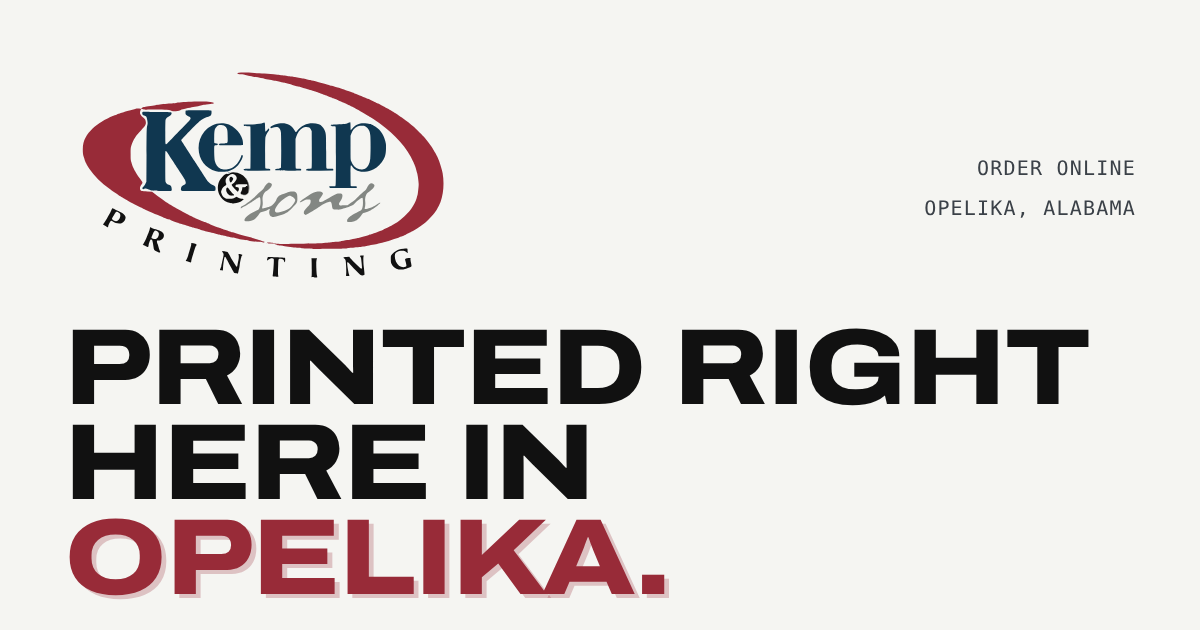
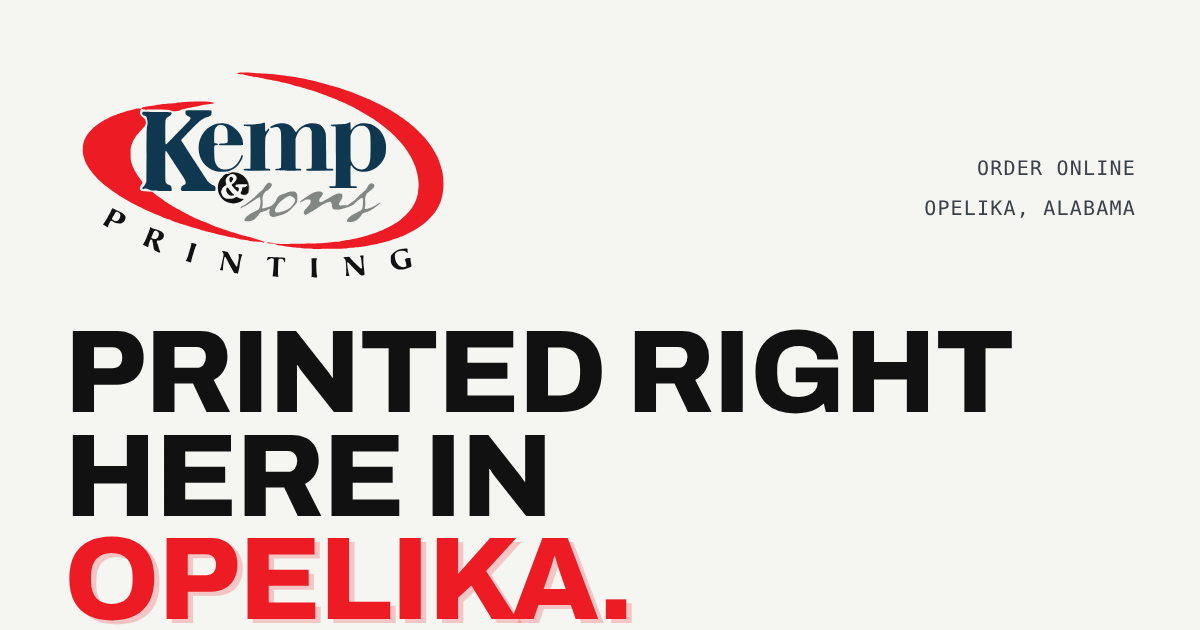
Kemp & Sons site: brand red #ED1C24 everywhere, standard-width type
Logo SVGs, CSS tokens, 3D textures and share image now use the client's
red. Small red text uses a deeper shade for legibility. Archivo width
moved from extended to standard via --stretch-display / --stretch-ui.

Claude-Session: https://claude.ai/code/session_0156pdi9V1ebMvpSVLSuGcoY

Changed region(s): [[0.0308, 0.5127, 0.925, 0.9952], [0.2158, 0.1206, 0.37, 0.3921], [0.0617, 0.1508, 0.2158, 0.3921]]

diff --git a/kemp-sons-site/src/styles/global.css b/kemp-sons-site/src/styles/global.css
@@ -9,8 +9,8 @@
 
 :root {
   /* Brand */
-  --burgundy: #982b38;
-  --burgundy-deep: #7a1f2b;
+  --red: #ed1c24;       /* Kemp & Sons red */
+  --red-ink: #c4161c;   /* same red, deepened for small text so it stays legible */
   --navy: #103750;
   --navy-deep: #0b2638;
   --gray: #838783;
@@ -30,6 +30,10 @@
   --m: #d6007e;
   --y: #ffd400;
 
+  /* Typeface width: 100% is standard, up to 125% is extended. */
+  --stretch-display: 100%;
+  --stretch-ui: 100%;
+
   --font: 'Archivo Variable', 'Archivo', 'Helvetica Neue', Arial, sans-serif;
   --mono: 'IBM Plex Mono', ui-monospace, Menlo, Consolas, monospace;
 
@@ -45,7 +49,7 @@ html.lenis, html.lenis body { height: auto; }
 .lenis.lenis-smooth { scroll-behavior: auto !important; }
 body {
   font-family: var(--font);
-  font-stretch: 100%;
+  font-stretch: var(--stretch-ui);
   font-size: 17px;
   line-height: 1.55;
   color: var(--ink);
@@ -59,8 +63,8 @@ img, svg, canvas { display: block; max-width: 100%; }
 [hidden] { display: none !important; }
 a { color: inherit; }
 button, input, select, textarea { font: inherit; color: inherit; }
-::selection { background: var(--burgundy); color: var(--white); }
-:focus-visible { outline: 2px solid var(--burgundy); outline-offset: 3px; }
+::selection { background: var(--red); color: var(--white); }
+:focus-visible { outline: 2px solid var(--red); outline-offset: 3px; }
 
 .skip { position: absolute; left: -999px; top: 8px; background: var(--ink); color: #fff; padding: 10px 14px; z-index: 100; }
 .skip:focus { left: 12px; }
@@ -81,11 +85,11 @@ button, input, select, textarea { font: inherit; color: inherit; }
   letter-spacing: 0.06em;
   text-transform: uppercase;
 }
-.label { color: var(--burgundy); display: inline-flex; align-items: center; gap: 10px; }
+.label { color: var(--red-ink); display: inline-flex; align-items: center; gap: 10px; }
 .label::before { content: ''; width: 22px; height: 2px; background: currentColor; }
 .headline {
   font-family: var(--font);
-  font-stretch: 118%;
+  font-stretch: var(--stretch-display);
   font-weight: 800;
   text-transform: uppercase;
   line-height: 0.88;
@@ -95,7 +99,7 @@ button, input, select, textarea { font: inherit; color: inherit; }
 h1.headline { font-size: clamp(46px, 7.4vw, 132px); }
 h2.headline { font-size: clamp(38px, 5.2vw, 88px); }
 .sub {
-  font-stretch: 112%;
+  font-stretch: var(--stretch-ui);
   font-weight: 700;
   text-transform: uppercase;
   letter-spacing: 0.01em;
@@ -103,16 +107,16 @@ h2.headline { font-size: clamp(38px, 5.2vw, 88px); }
   line-height: 1.1;
 }
 .lede { font-size: clamp(17px, 1.45vw, 21px); line-height: 1.5; color: var(--ink-2); max-width: 44ch; }
-.accent { color: var(--burgundy); }
+.accent { color: var(--red); }
 
-/* Misregistered print: the burgundy plate lands a hair off the black. */
-.misreg { text-shadow: 0.045em 0.035em 0 rgba(152, 43, 56, 0.9); }
+/* Misregistered print: the red plate lands a hair off the black. */
+.misreg { text-shadow: 0.045em 0.035em 0 rgba(237, 28, 36, 0.35); }
 
 /* ---------- Buttons: square-cut, press-shadow ---------- */
 .btn {
   display: inline-flex; align-items: center; justify-content: center; gap: 12px;
   min-height: 54px; padding: 0 26px;
-  font-family: var(--font); font-stretch: 112%; font-weight: 700; font-size: 14px;
+  font-family: var(--font); font-stretch: var(--stretch-ui); font-weight: 700; font-size: 14px;
   letter-spacing: 0.06em; text-transform: uppercase; text-decoration: none; cursor: pointer; white-space: nowrap;
   border: 2px solid var(--ink); background: transparent; color: var(--ink);
   box-shadow: 4px 4px 0 var(--ink);
@@ -120,9 +124,9 @@ h2.headline { font-size: clamp(38px, 5.2vw, 88px); }
 }
 .btn:hover { transform: translate(-2px, -2px); box-shadow: 6px 6px 0 var(--ink); }
 .btn:active { transform: translate(3px, 3px); box-shadow: 1px 1px 0 var(--ink); }
-.btn-primary { background: var(--burgundy); color: var(--white); }
-.btn-ink { background: var(--ink); color: var(--white); box-shadow: 4px 4px 0 var(--burgundy); }
-.btn-ink:hover { box-shadow: 6px 6px 0 var(--burgundy); }
+.btn-primary { background: var(--red); color: var(--white); }
+.btn-ink { background: var(--ink); color: var(--white); box-shadow: 4px 4px 0 var(--red); }
+.btn-ink:hover { box-shadow: 6px 6px 0 var(--red); }
 .btn-paper { background: var(--white); border-color: var(--white); color: var(--navy); box-shadow: 4px 4px 0 var(--reg); }
 .btn-outline-paper { border-color: var(--white); color: var(--white); box-shadow: 4px 4px 0 rgba(0, 0, 0, 0.35); }
 .btn .arrow { font-family: var(--mono); transition: transform 0.18s var(--ease); }
@@ -147,7 +151,7 @@ h2.headline { font-size: clamp(38px, 5.2vw, 88px); }
 .colorbar i:nth-child(3) { background: var(--y); }
 .colorbar i:nth-child(4) { background: var(--reg); }
 .colorbar i:nth-child(5) { background: var(--navy); }
-.colorbar i:nth-child(6) { background: var(--burgundy); }
+.colorbar i:nth-child(6) { background: var(--red); }
 .colorbar i:nth-child(7) { background: var(--gray); }
 .colorbar i:nth-child(8) { background: linear-gradient(90deg, #111 0 25%, #555 25% 50%, #999 50% 75%, #ddd 75%); }
 

diff --git a/kemp-sons-site/src/scripts/textures.ts b/kemp-sons-site/src/scripts/textures.ts
@@ -8,7 +8,7 @@ import * as THREE from 'three'
 const C = {
   navy: '#103750',
   navyDeep: '#0a2536',
-  burgundy: '#982b38',
+  red: '#ed1c24',
   gray: '#838783',
   black: '#111111',
   paper: '#fbfaf6',
@@ -93,7 +93,7 @@ export function programTextures(r: THREE.WebGLRenderer) {
     return toTexture(c, r)
   }
   const front = panel((g) => {
-    centerText(g, 'In Loving Memory', W / 2, 96, `italic 44px ${SERIF}`, C.burgundy)
+    centerText(g, 'In Loving Memory', W / 2, 96, `italic 44px ${SERIF}`, C.red)
     photo(g, W / 2, 330, 280, 350)
     g.strokeStyle = C.gold
     g.lineWidth = 4
@@ -105,20 +105,20 @@ export function programTextures(r: THREE.WebGLRenderer) {
     lines(g, W / 2, 762, 300, 2, 22, '#c9bfa9')
   })
   const back = panel((g) => {
-    centerText(g, 'With Gratitude', W / 2, 110, `italic 38px ${SERIF}`, C.burgundy)
+    centerText(g, 'With Gratitude', W / 2, 110, `italic 38px ${SERIF}`, C.red)
     lines(g, W / 2, 170, 380, 5, 26, '#bdb4a2')
-    centerText(g, 'Pallbearers', W / 2, 360, `italic 30px ${SERIF}`, C.burgundy)
+    centerText(g, 'Pallbearers', W / 2, 360, `italic 30px ${SERIF}`, C.red)
     lines(g, W / 2, 400, 320, 3, 26, '#bdb4a2')
-    centerText(g, 'Interment', W / 2, 530, `italic 30px ${SERIF}`, C.burgundy)
+    centerText(g, 'Interment', W / 2, 530, `italic 30px ${SERIF}`, C.red)
     lines(g, W / 2, 570, 260, 2, 26, '#bdb4a2')
     centerText(g, 'Printed by Kemp & Sons', W / 2, 770, `14px ${SANS}`, C.gray, 2)
   })
   const insideLeft = panel((g) => {
-    centerText(g, 'Obituary', W / 2, 100, `italic 40px ${SERIF}`, C.burgundy)
+    centerText(g, 'Obituary', W / 2, 100, `italic 40px ${SERIF}`, C.red)
     lines(g, 70, 160, 410, 22, 26, '#b9b1a1', false)
   })
   const insideRight = panel((g) => {
-    centerText(g, 'Order of Service', W / 2, 100, `italic 40px ${SERIF}`, C.burgundy)
+    centerText(g, 'Order of Service', W / 2, 100, `italic 40px ${SERIF}`, C.red)
     g.fillStyle = '#b9b1a1'
     for (let i = 0; i < 11; i++) {
       const y = 170 + i * 44
@@ -139,7 +139,7 @@ export function christmasTexture(r: THREE.WebGLRenderer) {
   for (const [x, h] of [[90, 170], [170, 120], [330, 200], [420, 140]] as const) {
     g.beginPath(); g.moveTo(x, 470 - h); g.lineTo(x + h * 0.32, 470); g.lineTo(x - h * 0.32, 470); g.fill()
   }
-  g.fillStyle = C.burgundy
+  g.fillStyle = C.red
   g.fillRect(0, 490, W, 210)
   g.fillStyle = C.gold
   g.fillRect(0, 490, W, 6)
@@ -153,7 +153,7 @@ export function yardSignTexture(r: THREE.WebGLRenderer) {
   const [c, g] = canvas(W, H)
   g.fillStyle = C.navy
   g.fillRect(0, 0, W, H)
-  g.fillStyle = C.burgundy
+  g.fillStyle = C.red
   g.fillRect(0, H - 170, W, 170)
   g.fillStyle = '#ffffff'
   g.beginPath(); g.arc(230, 280, 160, 0, Math.PI * 2); g.fill()
@@ -179,7 +179,7 @@ export function stickerSheetTexture(r: THREE.WebGLRenderer) {
   const [c, g] = canvas(W, H)
   g.fillStyle = '#ffffff'
   g.fillRect(0, 0, W, H)
-  const fills = [C.burgundy, C.navy, C.burgundy, C.navy, C.burgundy, C.navy]
+  const fills = [C.red, C.navy, C.red, C.navy, C.red, C.navy]
   let i = 0
   for (let row = 0; row < 3; row++) {
     for (let col = 0; col < 2; col++) {
@@ -207,7 +207,7 @@ export function sportsProgramTexture(r: THREE.WebGLRenderer) {
   const [c, g] = canvas(W, H)
   g.fillStyle = C.black
   g.fillRect(0, 0, W, H)
-  g.fillStyle = C.burgundy
+  g.fillStyle = C.red
   g.beginPath(); g.moveTo(0, 520); g.lineTo(W, 380); g.lineTo(W, H); g.lineTo(0, H); g.fill()
   g.strokeStyle = 'rgba(255,255,255,0.12)'
   g.lineWidth = 3
@@ -226,7 +226,7 @@ export function letterheadTexture(r: THREE.WebGLRenderer, logo: HTMLImageElement
   g.fillStyle = C.paper
   g.fillRect(0, 0, W, H)
   if (logo) g.drawImage(logo, 50, 40, 200, 132)
-  g.fillStyle = C.burgundy
+  g.fillStyle = C.red
   g.fillRect(50, 196, W - 100, 4)
   lines(g, 50, 250, 560, 16, 30, '#cfd3d6', false)
   centerText(g, '2301 Enterprise Drive  |  Opelika, Alabama', W / 2, 840, `15px ${SANS}`, C.gray, 1)
@@ -240,7 +240,7 @@ export function businessCardFront(r: THREE.WebGLRenderer, logo: HTMLImageElement
   g.fillStyle = '#ffffff'
   g.fillRect(0, 0, W, H)
   if (logo) g.drawImage(logo, (W - 600) / 2, 70, 600, 396)
-  g.fillStyle = C.burgundy
+  g.fillStyle = C.red
   g.fillRect(0, H - 34, W, 34)
   return toTexture(c, r)
 }
@@ -251,7 +251,7 @@ export function businessCardBack(r: THREE.WebGLRenderer) {
   const [c, g] = canvas(W, H)
   g.fillStyle = C.navy
   g.fillRect(0, 0, W, H)
-  g.fillStyle = C.burgundy
+  g.fillStyle = C.red
   g.fillRect(70, 96, 70, 8)
   g.textAlign = 'left'
   g.textBaseline = 'alphabetic'

diff --git a/kemp-sons-site/src/config/site.ts b/kemp-sons-site/src/config/site.ts
@@ -55,7 +55,7 @@ export const productLines = [
     collection: 'christmas-cards',
     name: 'Christmas & Seasonal Cards',
     blurb: '5x7 photo cards and greetings, with names and addresses merged from a spreadsheet.',
-    tone: 'burgundy',
+    tone: 'red',
   },
   {
     collection: 'yard-signs',
@@ -73,7 +73,7 @@ export const productLines = [
     collection: 'stickers',
     name: 'Stickers',
     blurb: 'Sheets of six 3-inch circles, sized for party cups, favors and packaging.',
-    tone: 'burgundy',
+    tone: 'red',
   },
 ] as const
 
